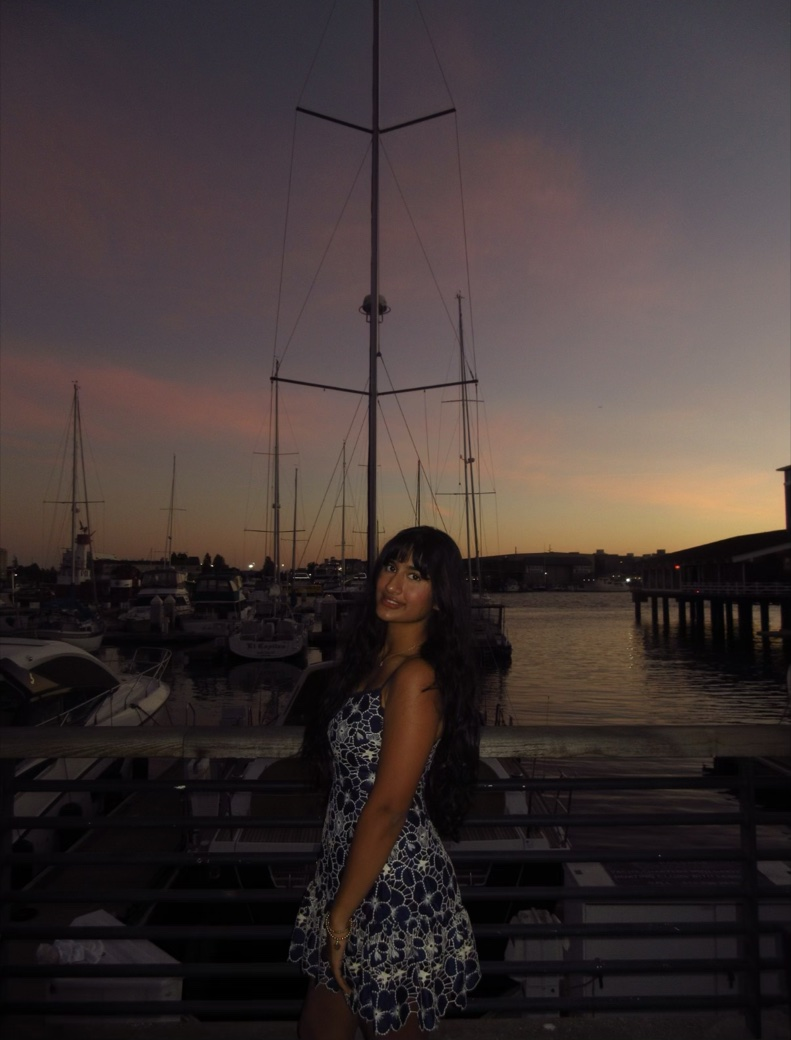
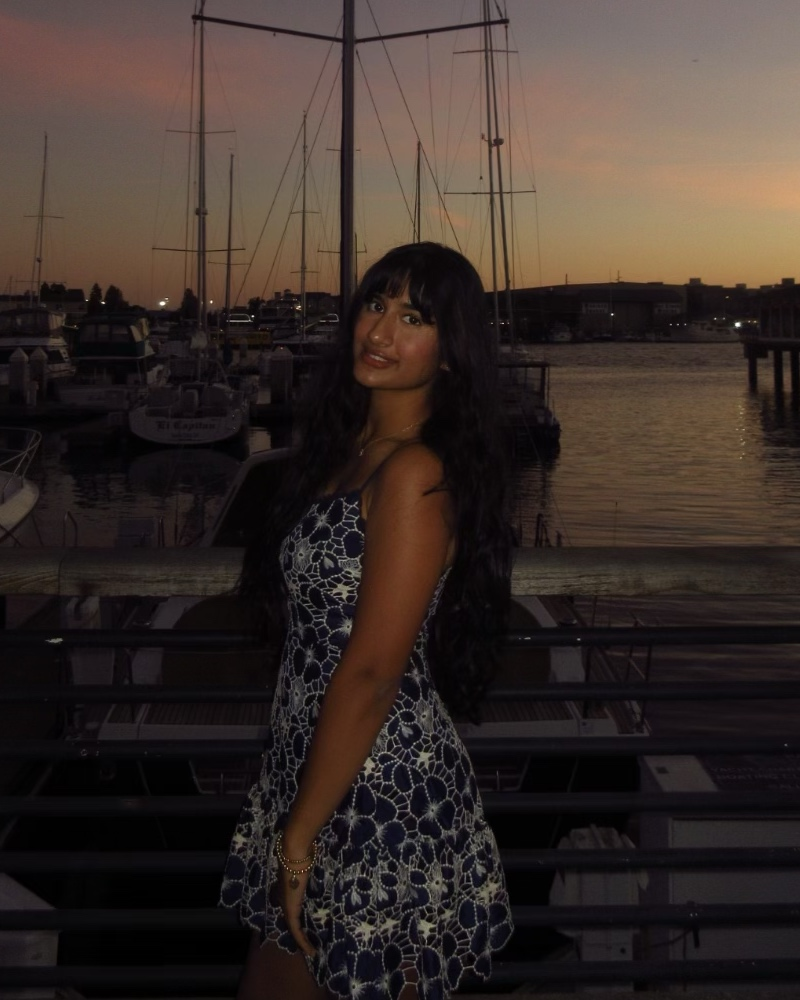
Tweak photos and form descriptions

diff --git a/src/lib/site.ts b/src/lib/site.ts
@@ -204,7 +204,7 @@ export const leadershipRoles = [
   {
     title: "Chapter President",
     blurb:
-      "Start Hearts4Hands at your own school and run it. You recruit the volunteers, organise the card-making sessions, and keep your chapter's hours logged.",
+      "Start Hearts4Hands at your own school and run it. You recruit the volunteers, run the card-making sessions, organize fundraisers, and keep your chapter's hours logged.",
     url: "https://forms.gle/jFEsbhVeYSTzaJGa7",
   },
   {
@@ -222,7 +222,7 @@ export const leadershipRoles = [
   {
     title: "Fundraising & Marketing Strategist",
     blurb:
-      "Plan the drives that pay for paper, envelopes, and stamps — and for the research money that everything left over goes to.",
+      "Plan the drives that pay for paper, envelopes, and stamps — and for the research money everything left over goes to. Expect to bring flyer ideas, post ideas, and other ways to help us grow.",
     url: "https://forms.gle/PF1KuFfvspYwtR8y9",
   },
   {
@@ -254,14 +254,20 @@ export type LeaderProfile = {
 export const leadershipTeam: LeaderProfile[] = [
   {
     name: "Ira Verma",
-    role: "President",
+    role: "Co-President",
     location: "San Ramon, CA",
     photo: "/team/Ira_Verma.jpg",
   },
   {
     name: "Preethika Prabhakaran",
-    role: "President",
+    role: "Co-President",
     location: "San Ramon, CA",
+  },
+  {
+    name: "Nishna Nadipally",
+    role: "Vice President",
+    location: "San Ramon, CA",
+    photo: "/team/Nishna_Nadipally.jpg",
   },
   {
     name: "Dimitri Saha",
@@ -269,14 +275,8 @@ export const leadershipTeam: LeaderProfile[] = [
     location: "San Ramon, CA",
   },
   {
-    name: "Nishna Nadipally",
-    role: "Team member",
-    location: "San Ramon, CA",
-    photo: "/team/Nishna_Nadipally.jpg",
-  },
-  {
     name: "Varshini Anupalli",
-    role: "Team member",
+    role: "Social Media Head",
     location: "San Ramon, CA",
     photo: "/team/Varshini_Anupalli.jpg",
   },

diff --git a/src/components/leadership/LeadershipRoster.tsx b/src/components/leadership/LeadershipRoster.tsx
@@ -9,8 +9,8 @@ import { leadershipTeam } from "@/lib/site";
  * Current leadership.
  *
  * The portrait frame keeps a fixed 4:5 box whether it holds a real headshot or
- * an illustrated stand-in, so a roster where only half the people have sent a
- * photo still lines up.
+ * a monogram, so a roster where only some people have sent a photo still lines
+ * up.
  */
 export function LeadershipRoster() {
   return (
@@ -29,7 +29,8 @@ export function LeadershipRoster() {
                     src={person.photo}
                     alt={`${person.name}, ${person.role}`}
                     fill
-                    sizes="(min-width: 1024px) 20rem, (min-width: 640px) 45vw, 90vw"
+                    sizes="(min-width: 1024px) 22rem, (min-width: 640px) 45vw, 90vw"
+                    quality={90}
                     className="object-cover"
                   />
                 ) : (

diff --git a/next.config.ts b/next.config.ts
@@ -84,6 +84,18 @@ const nextConfig: NextConfig = {
     "/account/certificates/[code]": ["./src/fonts/**/*", "./public/signatures/**/*"],
   },
 
+  images: {
+    /**
+     * Next 16 only permits quality values listed here — the default allowlist is
+     * `[75]` alone, and a `quality` prop outside it is rejected rather than
+     * honoured, so raising it on a component does nothing without this line.
+     *
+     * 75 is fine for artwork but visibly soft on photographs of faces, which
+     * are then compressed a second time on top of the JPEG they arrived as.
+     */
+    qualities: [75, 90],
+  },
+
   async headers() {
     return [
       { source: "/:path*", headers: securityHeaders },

diff --git a/src/components/about/TeamPreview.tsx b/src/components/about/TeamPreview.tsx
@@ -25,7 +25,7 @@ export function TeamPreview() {
           <li key={person.name}>
             <span className="relative block h-18 w-18 overflow-hidden rough-blob border-[2.5px] border-brown bg-cream sm:h-22 sm:w-22">
               {person.photo ? (
-                <Image src={person.photo} alt="" fill sizes="88px" className="object-cover" />
+                <Image src={person.photo} alt="" fill sizes="88px" quality={90} className="object-cover" />
               ) : (
                 <Monogram name={person.name} size="sm" />
               )}
